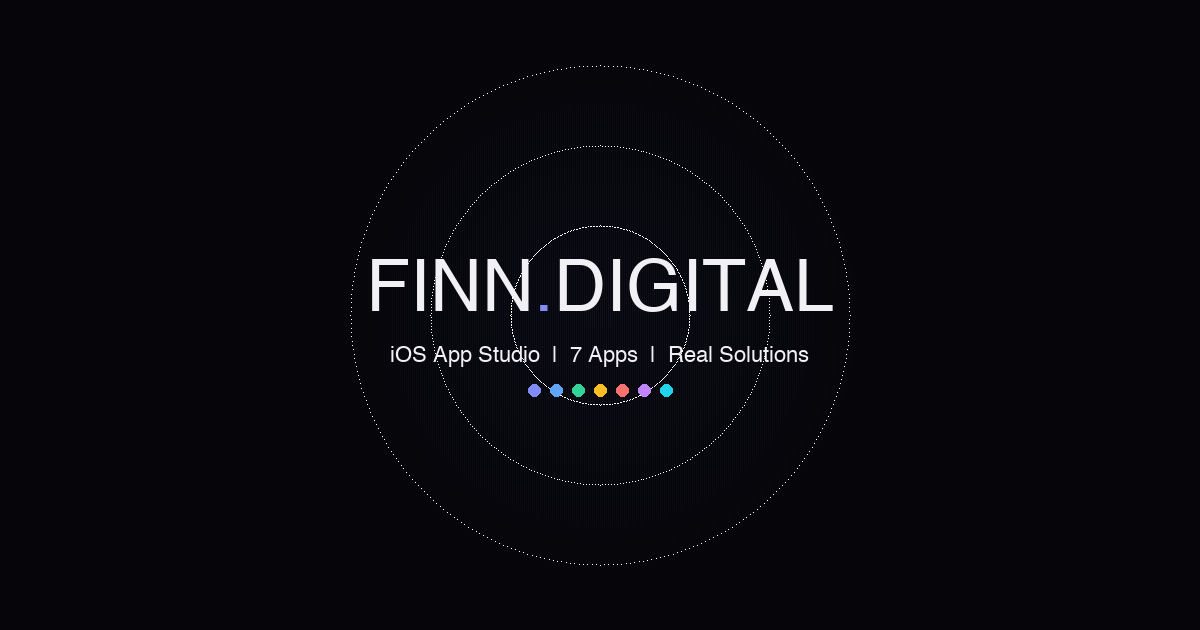
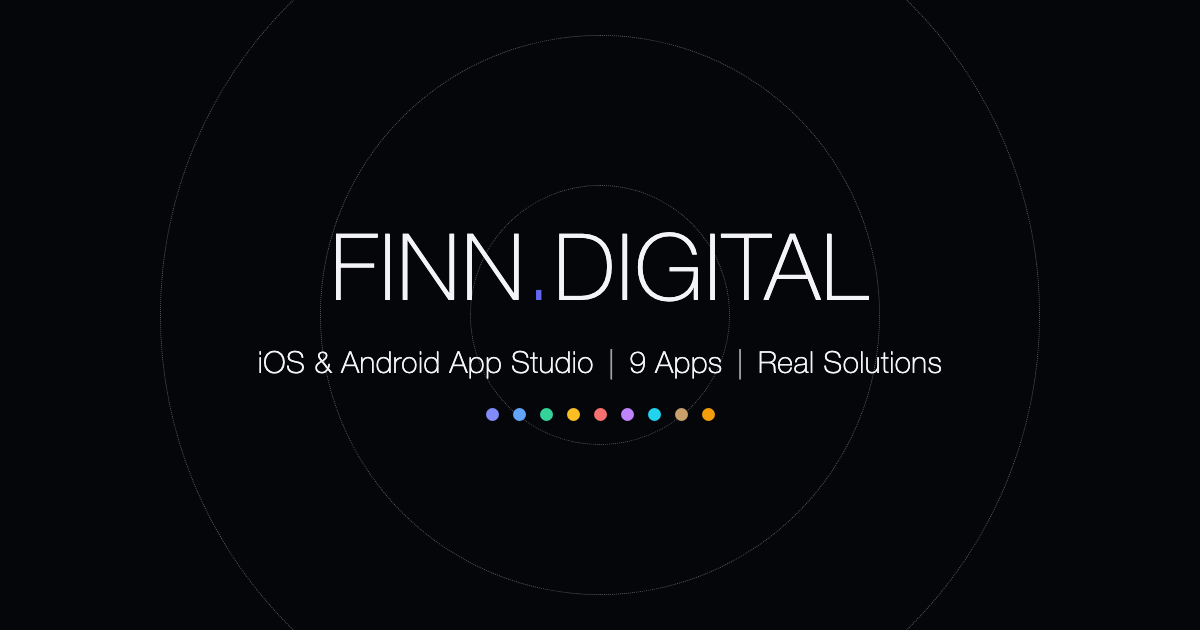
studio branding: iOS-only -> iOS & Android
NatureFind is live on Google Play, so the studio copy now says what's
true: title/meta/OG/Twitter, JSON-LD org description, hero tag, about
text, and the platform stat (iOS -> 2 Platforms). OG image regenerated
with the same design: 'iOS & Android App Studio | 9 Apps' and all nine
app dots (was still saying 7 apps). og:image URLs versioned to ?v=2 so
crawlers and edge caches fetch the new artwork immediately.

Changed region(s): [[0.2775, 0.3619, 0.74, 0.5127], [0.2158, 0.5429, 0.8017, 0.6635]]

diff --git a/index.html b/index.html
@@ -3,22 +3,22 @@
 <head>
     <meta charset="UTF-8">
     <meta name="viewport" content="width=device-width, initial-scale=1.0">
-    <title>Finn Digital — iOS App Studio</title>
-    <meta name="description" content="Finn Digital LLC builds iOS apps that solve real problems. 9 apps spanning nature, healthcare, real estate, pets, food safety, color, photo restoration, discipline, and c-store management.">
+    <title>Finn Digital — iOS &amp; Android App Studio</title>
+    <meta name="description" content="Finn Digital LLC builds iOS and Android apps that solve real problems. 9 apps spanning nature, healthcare, real estate, pets, food safety, color, photo restoration, discipline, and c-store management.">
 
     <!-- Open Graph -->
-    <meta property="og:title" content="Finn Digital — iOS App Studio">
-    <meta property="og:description" content="iOS studio crafting apps that solve real, everyday problems. 9 apps and counting.">
-    <meta property="og:image" content="https://finndigital.net/og-image.png">
+    <meta property="og:title" content="Finn Digital — iOS &amp; Android App Studio">
+    <meta property="og:description" content="App studio crafting iOS and Android apps that solve real, everyday problems. 9 apps and counting.">
+    <meta property="og:image" content="https://finndigital.net/og-image.png?v=2">
     <meta property="og:url" content="https://finndigital.net">
     <meta property="og:type" content="website">
     <meta property="og:site_name" content="Finn Digital">
 
     <!-- Twitter/X Card -->
     <meta name="twitter:card" content="summary_large_image">
-    <meta name="twitter:title" content="Finn Digital — iOS App Studio">
-    <meta name="twitter:description" content="iOS studio crafting apps that solve real, everyday problems.">
-    <meta name="twitter:image" content="https://finndigital.net/og-image.png">
+    <meta name="twitter:title" content="Finn Digital — iOS &amp; Android App Studio">
+    <meta name="twitter:description" content="App studio crafting iOS and Android apps that solve real, everyday problems.">
+    <meta name="twitter:image" content="https://finndigital.net/og-image.png?v=2">
 
     <!-- Apple Smart App Banner (shows for NatureFind on iOS Safari) -->
     <meta name="apple-itunes-app" content="app-id=6759922299">
@@ -40,7 +40,7 @@
       "alternateName": "Finn Digital",
       "url": "https://finndigital.net",
       "logo": "https://finndigital.net/apple-touch-icon.png",
-      "description": "Independent iOS studio crafting apps that solve real, everyday problems.",
+      "description": "Independent studio crafting iOS and Android apps that solve real, everyday problems.",
       "email": "contact@finndigital.net",
       "founder": { "@type": "Person", "name": "Thomas Finnegan" },
       "sameAs": ["https://github.com/finn581"]
@@ -204,7 +204,7 @@
             <div class="circle circle-4"></div>
         </div>
         <div class="hero-content">
-            <p class="hero-tag">iOS App Studio</p>
+            <p class="hero-tag">iOS &amp; Android App Studio</p>
             <h1 class="wordmark">FINN<span class="accent">.</span>DIGITAL</h1>
             <p class="subtitle">Crafting apps that solve real problems</p>
             <div class="app-dots">
@@ -479,7 +479,7 @@
     <section id="about" class="about fade-in">
         <div class="about-inner">
             <span class="section-tag">About</span>
-            <p class="about-text">Finn Digital is an iOS studio focused on building apps that solve real, everyday problems. From finding a national park to running a convenience store, every app is designed to be <em>useful from day one.</em></p>
+            <p class="about-text">Finn Digital is an app studio building for iOS and Android, focused on apps that solve real, everyday problems. From finding a national park to running a convenience store, every app is designed to be <em>useful from day one.</em></p>
             <div class="about-stats">
                 <div class="stat">
                     <span class="stat-number">9</span>
@@ -487,8 +487,8 @@
                 </div>
                 <div class="stat-divider"></div>
                 <div class="stat">
-                    <span class="stat-number">iOS</span>
-                    <span class="stat-label">Platform</span>
+                    <span class="stat-number">2</span>
+                    <span class="stat-label">Platforms</span>
                 </div>
                 <div class="stat-divider"></div>
                 <div class="stat">

diff --git a/safeplate/index.html b/safeplate/index.html
@@ -13,7 +13,7 @@
 
     <meta property="og:title" content="SafePlate — Allergen Tracking for Families">
     <meta property="og:description" content="Scan a barcode or food photo. The app lists ingredients and highlights matches against each family member's allergen profile. Allergy cards in 11 languages. An informational tool — always read the label.">
-    <meta property="og:image" content="https://finndigital.net/og-image.png">
+    <meta property="og:image" content="https://finndigital.net/og-image.png?v=2">
     <meta property="og:url" content="https://finndigital.net/safeplate/">
     <meta property="og:type" content="website">
     <meta property="og:site_name" content="Finn Digital">
@@ -21,7 +21,7 @@
     <meta name="twitter:card" content="summary_large_image">
     <meta name="twitter:title" content="SafePlate — Allergen Tracking for Families">
     <meta name="twitter:description" content="Scan a barcode or food photo. The app lists ingredients and highlights matches against each family member's allergen profile. 11 languages. Always read the label.">
-    <meta name="twitter:image" content="https://finndigital.net/og-image.png">
+    <meta name="twitter:image" content="https://finndigital.net/og-image.png?v=2">
 
     <meta http-equiv="Content-Security-Policy" content="default-src 'self'; script-src 'self'; style-src 'self' 'unsafe-inline'; img-src 'self' data:; font-src 'self'; media-src 'self'; connect-src 'self'; frame-ancestors 'none'; base-uri 'self'; form-action 'self'; object-src 'none'; upgrade-insecure-requests">
     <meta name="referrer" content="strict-origin-when-downgrade">

diff --git a/easyrealty/index.html b/easyrealty/index.html
@@ -13,7 +13,7 @@
     <!-- Open Graph -->
     <meta property="og:title" content="EasyRealty — Real Estate Deals & E-Signature, From Your Phone">
     <meta property="og:description" content="Run your pipeline and CRM, and sign contracts with EasySign — guided multi-party signing, auto-detected fields, encrypted and legally binding.">
-    <meta property="og:image" content="https://finndigital.net/og-image.png">
+    <meta property="og:image" content="https://finndigital.net/og-image.png?v=2">
     <meta property="og:url" content="https://finndigital.net/easyrealty/">
     <meta property="og:type" content="website">
     <meta property="og:site_name" content="Finn Digital">
@@ -22,7 +22,7 @@
     <meta name="twitter:card" content="summary_large_image">
     <meta name="twitter:title" content="EasyRealty — Real Estate Deals & E-Signature, From Your Phone">
     <meta name="twitter:description" content="EasySign: guided multi-party signing, auto-detected fields, encrypted and legally binding — plus pipeline, CRM, and mortgage tools.">
-    <meta name="twitter:image" content="https://finndigital.net/og-image.png">
+    <meta name="twitter:image" content="https://finndigital.net/og-image.png?v=2">
 
     <meta http-equiv="Content-Security-Policy" content="default-src 'self'; script-src 'self'; style-src 'self' 'unsafe-inline'; img-src 'self' data:; font-src 'self'; media-src 'self'; connect-src 'self'; frame-ancestors 'none'; base-uri 'self'; form-action 'self'; object-src 'none'; upgrade-insecure-requests">
     <meta name="referrer" content="strict-origin-when-downgrade">

diff --git a/pettrace/index.html b/pettrace/index.html
@@ -13,7 +13,7 @@
     <!-- Open Graph -->
     <meta property="og:title" content="PetTrace — A Guardian in Your Pocket">
     <meta property="og:description" content="iOS pet-safety utility. Plant toxicity scanner, AI vision pet matching, Claude recovery advisor, QR + NFC tags, shelter map. Bring them home.">
-    <meta property="og:image" content="https://finndigital.net/og-image.png">
+    <meta property="og:image" content="https://finndigital.net/og-image.png?v=2">
     <meta property="og:url" content="https://finndigital.net/pettrace/">
     <meta property="og:type" content="website">
     <meta property="og:site_name" content="Finn Digital">
@@ -22,7 +22,7 @@
     <meta name="twitter:card" content="summary_large_image">
     <meta name="twitter:title" content="PetTrace — A Guardian in Your Pocket">
     <meta name="twitter:description" content="iOS pet-safety utility. Plant toxicity scanner, AI vision pet matching, Claude recovery advisor, QR + NFC tags, shelter map.">
-    <meta name="twitter:image" content="https://finndigital.net/og-image.png">
+    <meta name="twitter:image" content="https://finndigital.net/og-image.png?v=2">
 
     <meta http-equiv="Content-Security-Policy" content="default-src 'self'; script-src 'self'; style-src 'self' 'unsafe-inline'; img-src 'self' data:; font-src 'self'; media-src 'self'; connect-src 'self'; frame-ancestors 'none'; base-uri 'self'; form-action 'self'; object-src 'none'; upgrade-insecure-requests">
     <meta name="referrer" content="strict-origin-when-downgrade">

diff --git a/disciplinematters/index.html b/disciplinematters/index.html
@@ -14,7 +14,7 @@
     <!-- Open Graph -->
     <meta property="og:title" content="Discipline Matters — A System for Becoming">
     <meta property="og:description" content="iOS app for daily discipline. Morning anchors, workouts, nutrition, sleep, and a 40-week journey.">
-    <meta property="og:image" content="https://finndigital.net/og-image.png">
+    <meta property="og:image" content="https://finndigital.net/og-image.png?v=2">
     <meta property="og:url" content="https://finndigital.net/disciplinematters/">
     <meta property="og:type" content="website">
     <meta property="og:site_name" content="Finn Digital">
@@ -23,7 +23,7 @@
     <meta name="twitter:card" content="summary_large_image">
     <meta name="twitter:title" content="Discipline Matters — A System for Becoming">
     <meta name="twitter:description" content="iOS app for daily discipline. Built around five rhythms — Morning, Workout, Nutrition, Progress, Evening.">
-    <meta name="twitter:image" content="https://finndigital.net/og-image.png">
+    <meta name="twitter:image" content="https://finndigital.net/og-image.png?v=2">
 
     <meta http-equiv="Content-Security-Policy" content="default-src 'self'; script-src 'self'; style-src 'self' 'unsafe-inline'; img-src 'self' data:; font-src 'self'; media-src 'self'; connect-src 'self'; frame-ancestors 'none'; base-uri 'self'; form-action 'self'; object-src 'none'; upgrade-insecure-requests">
     <meta name="referrer" content="strict-origin-when-downgrade">

diff --git a/naturefind/index.html b/naturefind/index.html
@@ -14,7 +14,7 @@
     <!-- Open Graph -->
     <meta property="og:title" content="NatureFind — Explore the Americas Outdoors">
     <meta property="og:description" content="iOS and Android app for discovering national parks, trails, campgrounds, and wildlife across the Americas.">
-    <meta property="og:image" content="https://finndigital.net/og-image.png">
+    <meta property="og:image" content="https://finndigital.net/og-image.png?v=2">
     <meta property="og:url" content="https://finndigital.net/naturefind/">
     <meta property="og:type" content="website">
     <meta property="og:site_name" content="Finn Digital">
@@ -23,7 +23,7 @@
     <meta name="twitter:card" content="summary_large_image">
     <meta name="twitter:title" content="NatureFind — Explore the Americas Outdoors">
     <meta name="twitter:description" content="iOS and Android app for discovering parks, trails, campgrounds, and wildlife across the Americas.">
-    <meta name="twitter:image" content="https://finndigital.net/og-image.png">
+    <meta name="twitter:image" content="https://finndigital.net/og-image.png?v=2">
 
     <meta http-equiv="Content-Security-Policy" content="default-src 'self'; script-src 'self'; style-src 'self' 'unsafe-inline'; img-src 'self' data:; font-src 'self'; media-src 'self'; connect-src 'self'; frame-ancestors 'none'; base-uri 'self'; form-action 'self'; object-src 'none'; upgrade-insecure-requests">
     <meta name="referrer" content="strict-origin-when-cross-origin">

diff --git a/krate/index.html b/krate/index.html
@@ -13,7 +13,7 @@
     <!-- Open Graph -->
     <meta property="og:title" content="Krate — Phone-First Cockpit for C-Store Owners">
     <meta property="og:description" content="Scan DSD invoices, automate scan-data submissions, and track compliance renewals from your iPhone.">
-    <meta property="og:image" content="https://finndigital.net/og-image.png">
+    <meta property="og:image" content="https://finndigital.net/og-image.png?v=2">
     <meta property="og:url" content="https://finndigital.net/krate/">
     <meta property="og:type" content="website">
     <meta property="og:site_name" content="Finn Digital">
@@ -22,7 +22,7 @@
     <meta name="twitter:card" content="summary_large_image">
     <meta name="twitter:title" content="Krate — Phone-First Cockpit for C-Store Owners">
     <meta name="twitter:description" content="Scan DSD invoices, automate scan-data, and track compliance — from your phone.">
-    <meta name="twitter:image" content="https://finndigital.net/og-image.png">
+    <meta name="twitter:image" content="https://finndigital.net/og-image.png?v=2">
 
     <meta http-equiv="Content-Security-Policy" content="default-src 'self'; script-src 'self'; style-src 'self' 'unsafe-inline'; img-src 'self' data:; font-src 'self'; media-src 'self'; connect-src 'self'; frame-ancestors 'none'; base-uri 'self'; form-action 'self'; object-src 'none'; upgrade-insecure-requests">
     <meta name="referrer" content="strict-origin-when-downgrade">

diff --git a/revivo/index.html b/revivo/index.html
@@ -14,7 +14,7 @@
     <!-- Open Graph -->
     <meta property="og:title" content="Revivo — AI Photo Restoration & Animation">
     <meta property="og:description" content="iOS app that restores, colorizes, and animates old family photos with AI. Free on the App Store.">
-    <meta property="og:image" content="https://finndigital.net/og-image.png">
+    <meta property="og:image" content="https://finndigital.net/og-image.png?v=2">
     <meta property="og:url" content="https://finndigital.net/revivo/">
     <meta property="og:type" content="website">
     <meta property="og:site_name" content="Finn Digital">
@@ -23,7 +23,7 @@
     <meta name="twitter:card" content="summary_large_image">
     <meta name="twitter:title" content="Revivo — AI Photo Restoration & Animation">
     <meta name="twitter:description" content="Restore, colorize, and animate old family photos with AI.">
-    <meta name="twitter:image" content="https://finndigital.net/og-image.png">
+    <meta name="twitter:image" content="https://finndigital.net/og-image.png?v=2">
 
     <meta http-equiv="Content-Security-Policy" content="default-src 'self'; script-src 'self'; style-src 'self' 'unsafe-inline'; img-src 'self' data:; font-src 'self'; media-src 'self'; connect-src 'self'; frame-ancestors 'none'; base-uri 'self'; form-action 'self'; object-src 'none'; upgrade-insecure-requests">
     <meta name="referrer" content="strict-origin-when-downgrade">

diff --git a/truehue/index.html b/truehue/index.html
@@ -13,7 +13,7 @@
 
     <meta property="og:title" content="TrueHue — Honest Paint Color Scanner">
     <meta property="og:description" content="iPhone app that matches any wall to 30,000+ paints across 7 brands. Refuses to lie when the lighting is wrong.">
-    <meta property="og:image" content="https://finndigital.net/og-image.png">
+    <meta property="og:image" content="https://finndigital.net/og-image.png?v=2">
     <meta property="og:url" content="https://finndigital.net/truehue/">
     <meta property="og:type" content="website">
     <meta property="og:site_name" content="Finn Digital">
@@ -21,7 +21,7 @@
     <meta name="twitter:card" content="summary_large_image">
     <meta name="twitter:title" content="TrueHue — Honest Paint Color Scanner">
     <meta name="twitter:description" content="Match any wall to 30,000+ paints across 7 brands. Honest about lighting.">
-    <meta name="twitter:image" content="https://finndigital.net/og-image.png">
+    <meta name="twitter:image" content="https://finndigital.net/og-image.png?v=2">
 
     <meta http-equiv="Content-Security-Policy" content="default-src 'self'; script-src 'self'; style-src 'self' 'unsafe-inline'; img-src 'self' data:; font-src 'self'; media-src 'self'; connect-src 'self'; frame-ancestors 'none'; base-uri 'self'; form-action 'self'; object-src 'none'; upgrade-insecure-requests">
     <meta name="referrer" content="strict-origin-when-downgrade">

diff --git a/carefind/index.html b/carefind/index.html
@@ -13,7 +13,7 @@
 
     <meta property="og:title" content="CareFind — Find the Right Care">
     <meta property="og:description" content="7.5M verified providers, cost transparency, and the CareFind Score. Real data, not ads.">
-    <meta property="og:image" content="https://finndigital.net/og-image.png">
+    <meta property="og:image" content="https://finndigital.net/og-image.png?v=2">
     <meta property="og:url" content="https://finndigital.net/carefind/">
     <meta property="og:type" content="website">
     <meta property="og:site_name" content="Finn Digital">
@@ -21,7 +21,7 @@
     <meta name="twitter:card" content="summary_large_image">
     <meta name="twitter:title" content="CareFind — Find the Right Care">
     <meta name="twitter:description" content="7.5M verified providers. Cost transparency. Real data, not ads.">
-    <meta name="twitter:image" content="https://finndigital.net/og-image.png">
+    <meta name="twitter:image" content="https://finndigital.net/og-image.png?v=2">
 
     <meta http-equiv="Content-Security-Policy" content="default-src 'self'; script-src 'self'; style-src 'self' 'unsafe-inline'; img-src 'self' data:; font-src 'self'; media-src 'self'; connect-src 'self'; frame-ancestors 'none'; base-uri 'self'; form-action 'self'; object-src 'none'; upgrade-insecure-requests">
     <meta name="referrer" content="strict-origin-when-downgrade">
